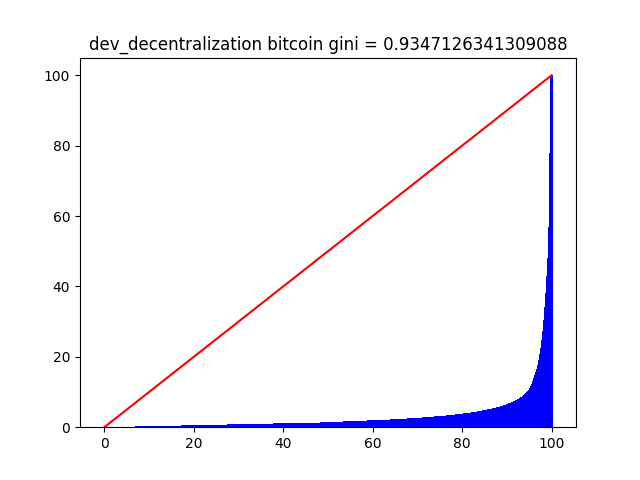
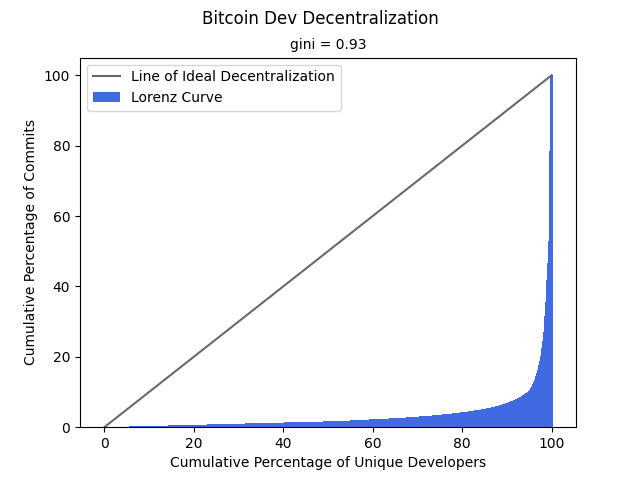
chore: images update

diff --git a/worker/gini.py b/worker/gini.py
@@ -2,6 +2,7 @@ import json
 import os
 import numpy as np
 import matplotlib.pyplot as plt
+import math
 
 def plotGini(image_path, sorted_list, cumulative_list, gini_coefficient):
     x_axis = []
@@ -12,13 +13,16 @@ def plotGini(image_path, sorted_list, cumulative_list, gini_coefficient):
     fig = plt.figure()
  
     # creating the lorenz curve
-    plt.bar(x_axis, y_axis, color ='b', label='lorenz curve')
+    plt.bar(x_axis, y_axis, color ='royalblue', label='Lorenz Curve')
     x = np.linspace(0, 100, 100)
-    plt.plot(x, x, '-r', label='Ideal')
-    # plt.xlabel('')
-    # plt.ylabel('')
-    vector = image_path.split('/')[1] + ' ' + image_path.split('/')[2].split('.')[0]
-    plt.title(vector + " gini = " + str(gini_coefficient))
+    plt.plot(x, x, color='dimgray', label='Line of Ideal Decentralization')
+    plt.xlabel('Cumulative Percentage of Addresses')
+    plt.ylabel('Cumulative Percentage of Ownership')
+    plt.suptitle('Ethereum Onwership Decentralization')
+    plt.title('gini = ' + str(gini_coefficient)[:4], fontsize=10)
+    # vector = image_path.split('/')[1] + ' ' + image_path.split('/')[2].split('.')[0]
+    # plt.title(vector + " gini = " + str(gini_coefficient))
+    plt.legend()
     plt.savefig(image_path)
     # plt.show()
 
@@ -53,6 +57,42 @@ def blockDecentralization(directory, image_path):
                 print(f)
     print(gini(list(dic.values()), image_path))
 
+    #hoover index
+    # hashrate = list(dic.values())
+    # mean = sum(hashrate) / len(hashrate)
+    # res = 0
+    # for node in hashrate:
+    #     res += abs(mean - node)
+    # res = res / sum(hashrate)
+    # res /= 2
+    # print(res)
+
+    # theirl T index
+    # hashrate = list(dic.values())
+    # mean = sum(hashrate) / len(hashrate)
+    # res = 0
+    # for node in hashrate:
+    #     res += (node / mean) * math.log(node/mean)
+    # res = res / len(hashrate)
+    # print(res)
+
+    # theirl L index
+    # hashrate = list(dic.values())
+    # mean = sum(hashrate) / len(hashrate)
+    # res = 0
+    # for node in hashrate:
+    #     res += math.log(mean/node)
+    # res = res / len(hashrate)
+    # print(res)
+
+    # from the researchgate paper
+    # arr = sorted(list(dic.values()))
+    # arr = list(map(lambda x: x/sum(arr) * 100, arr))
+    # dq = 0
+    # for i in range(len(arr)):
+    #     dq += arr[i] / (i+1) * 2
+    # print(dq)
+
 def devDecentralization(directory, image_path):
     dic = dict()
     for filename in os.listdir(directory):
@@ -62,7 +102,7 @@ def devDecentralization(directory, image_path):
             f = open(file)
             try:
                 data = json.load(f)
-                i = data['Committer']
+                i = data['Author']
                 if i not in dic.keys():
                     dic[i] = 0
                 dic[i] += 1
@@ -91,13 +131,14 @@ def ownershipDecentralization(directory, image_path):
     print(gini(dic, image_path))
 
 
-blockDecentralization('data/block_decentralization/bitcoin', 'images/block_decentralization/bitcoin.png')
-blockDecentralization('data/block_decentralization/ethereum', 'images/block_decentralization/ethereum.png')
-devDecentralization('data/github/bitcoin', 'images/dev_decentralization/bitcoin.png')
-devDecentralization('data/github/erigon', 'images/dev_decentralization/erigon.png')
-devDecentralization('data/github/geth', 'images/dev_decentralization/geth.png')
-devDecentralization('data/github/nethermind', 'images/dev_decentralization/nethermind.png')
-devDecentralization('data/github/openethereum', 'images/dev_decentralization/openethereum.png')
-devDecentralization('data/github/solana', 'images/dev_decentralization/solana.png')
-ownershipDecentralization('data/ownership_decentralization/bitcoin', 'images/ownership_decentralization/bitcoin.png')
-ownershipDecentralization('data/ownership_decentralization/solana', 'images/ownership_decentralization/solana.png')
+# blockDecentralization('data/block_decentralization/bitcoin', 'images/block_decentralization/bitcoin.png')
+# blockDecentralization('data/block_decentralization/ethereum', 'images/block_decentralization/ethereum.png')
+# devDecentralization('data/dev_decentralization/bitcoin', 'images/dev_decentralization/bitcoin.png')
+# devDecentralization('data/dev_decentralization/erigon', 'images/dev_decentralization/erigon.png')
+# devDecentralization('data/dev_decentralization/geth', 'images/dev_decentralization/geth.png')
+# devDecentralization('data/dev_decentralization/nethermind', 'images/dev_decentralization/nethermind.png')
+# devDecentralization('data/dev_decentralization/openethereum', 'images/dev_decentralization/openethereum.png')
+# devDecentralization('data/dev_decentralization/solana', 'images/dev_decentralization/solana.png')
+# ownershipDecentralization('data/ownership_decentralization/bitcoin', 'images/ownership_decentralization/bitcoin.png')
+# ownershipDecentralization('data/ownership_decentralization/ethereum', 'images/ownership_decentralization/ethereum.png')
+# ownershipDecentralization('data/ownership_decentralization/solana', 'images/ownership_decentralization/solana.png')

diff --git a/worker/helper/elastic_search.go b/worker/helper/elastic_search.go
@@ -1,0 +1,110 @@
+package helper
+
+import (
+	"bytes"
+	"encoding/json"
+	"fmt"
+	"io/ioutil"
+	"net/http"
+	"os"
+	"strings"
+	// "time"
+
+	"github.com/victorlau1/worker/models"
+)
+
+var indexName = "dev_decentralization_authors"
+var pathDir = "data/transformed"
+var outputPath = "data/elastic_bulk_transformed"
+var elasticHost = "http://localhost:9200"
+var idStart = 1
+
+type elasticIndex struct {
+	Index IndexAction `json:"index"`
+}
+
+type IndexAction struct {
+	Index string `json:"_index"`
+	Id    string `json:"_id"`
+}
+
+// FormatBulkUpload adheres to the API specified here:
+// https://www.elastic.co/guide/en/elasticsearch/reference/current/docs-bulk.html
+func FormatBulkUpload() {
+	entries, err := ioutil.ReadDir(pathDir)
+
+	if err != nil {
+		fmt.Printf("Failed to read directory %s", err)
+	}
+
+	for _, entry := range entries {
+		b := new(bytes.Buffer)
+		enc := json.NewEncoder(b)
+		absPath := fmt.Sprintf("%s/%s", pathDir, entry.Name())
+
+		file, err := os.ReadFile(absPath)
+
+		if err != nil {
+			fmt.Printf("Failed to read file: %s", err)
+		}
+
+		rows := strings.Split(string(file), "\n")
+		for _, row := range rows {
+			
+			nm := &models.DevDecentralization{}
+			err = json.Unmarshal([]byte(row), nm)
+			indexInfo := elasticIndex{
+				Index: IndexAction{
+					Index: indexName,
+					Id:    fmt.Sprintf("%v_%s", nm.CommitID, nm.Client),
+				},
+			}
+			enc.Encode(indexInfo)
+			enc.Encode(nm)
+		}
+		nf := fmt.Sprintf("%v/%v", outputPath, entry.Name())
+		nb, _ := ioutil.ReadAll(b)
+		err = os.WriteFile(nf, nb, 0644)
+
+		if err != nil {
+			fmt.Printf("Failed to write file: %s", err)
+		}
+	}
+}
+
+func PutToBulkUpload() {
+	url := fmt.Sprintf("%v/%v/%v", elasticHost, indexName, "_bulk?pretty")
+
+	entries, err := ioutil.ReadDir(pathDir)
+
+	if err != nil {
+		fmt.Printf("Failed to read directory %s", err)
+	}
+
+	for _, entry := range entries {
+		fileName := fmt.Sprintf("%v/%v", outputPath, entry.Name())
+		file, err := os.Open(fileName)
+
+		if err != nil {
+			fmt.Printf("Failed to read file")
+		}
+
+		client := &http.Client{}
+
+		req, err := http.NewRequest(http.MethodPut, url, file)
+
+		if err != nil {
+			fmt.Printf("Failed to Make Request. Error: %v", err)
+		}
+
+		req.Header.Add("Content-Type", "application/json")
+		// req.Header.Add("Content-Disposition", fmt.Sprintf("attachment; filename=%v", fileName))
+		resp, err := client.Do(req)
+
+		if err != nil {
+			fmt.Printf("Error: %v", err)
+		}
+		body, err := ioutil.ReadAll(resp.Body)
+		fmt.Printf("%s", body)
+	}
+}

diff --git a/worker/scraper.py b/worker/scraper.py
@@ -1,0 +1,58 @@
+import requests
+from bs4 import BeautifulSoup
+import pandas as pd
+import re
+import time
+import datetime
+import json
+import os
+
+headers = {'user-agent': 'Mozilla/5.0 (Windows NT 10.0; Win64; x64) AppleWebKit/537.36 (KHTML, like Gecko) Chrome/96.0.4664.110 Safari/537.36'}
+
+def EtherscanScraper(url):
+    r = requests.get(url,headers=headers)
+    soup = BeautifulSoup(r.content, 'html5lib')
+    tags = soup.find_all('div', attrs = {'class':'col-md-9'}) 
+    return soup.find_all('td')
+
+def OwnershipScraper():
+
+  dic = {'Rank': [], 'isContract': [], 'Address': [], 'Name Tag': [], 'Balance': [], 'Percentage': [], 'Txn Count': []}
+  for k in range(1, 101, 1):
+    page = EtherscanScraper('https://etherscan.io/accounts/'+str(k)+'?ps=100')
+    l = len(page)
+    for i in range(l//6):
+      start = 6 * i
+      dic['Rank'].append(str(page[start])[4:-5])
+      addressTag = str(page[start+1])[4:-5]
+      if addressTag.find('Contract') == -1:
+        dic['isContract'].append(False)
+      else:
+        dic['isContract'].append(True)
+      ind = addressTag.find('/address/')
+      dic['Address'].append(addressTag[ind+9:ind+51])
+      dic['Name Tag'].append(str(page[start+2])[4:-5])
+      dic['Balance'].append("".join(map(str,re.findall(r'[.\d]', str(page[start + 3])[4:-5]))))
+      dic['Percentage'].append(str(page[start+4])[4:-5].replace('%', ''))
+      dic['Txn Count'].append(str(page[start+5])[4:-5].replace(',', ''))
+    time.sleep(0.5)
+
+  dataframe = pd.DataFrame(dic)
+  currentTime = (datetime.datetime.utcnow().isoformat()).replace(':', '_')
+  dataframe.to_csv('data/Ethereum_Ownership_' + currentTime + '.csv')
+  print(dataframe)
+
+def csvToJson():
+  dataFrame = pd.read_csv('data/Ethereum_Ownership_2022-01-05T11_57_37.674301.csv')
+  for _, row in dataFrame.iterrows():
+    json_obj = {}
+    json_obj['Address'] = row['Address']
+    json_obj['Balance'] = row['Balance']
+    json_obj['Blockchain'] = 'Ethereum'
+    json_obj['TimeStamp'] = '2022-01-05T11_57_37.674301'.replace('_', ':')
+    filename = 'data/ownership_decentralization/ethereum/'+ row['Address'] + '_' + '2022-01-05T11_57_37.674301' +'.json'
+    with open(filename, 'w') as jsonFile:
+      json.dump(json_obj, jsonFile)
+
+# OwnershipScraper()
+# csvToJson()
